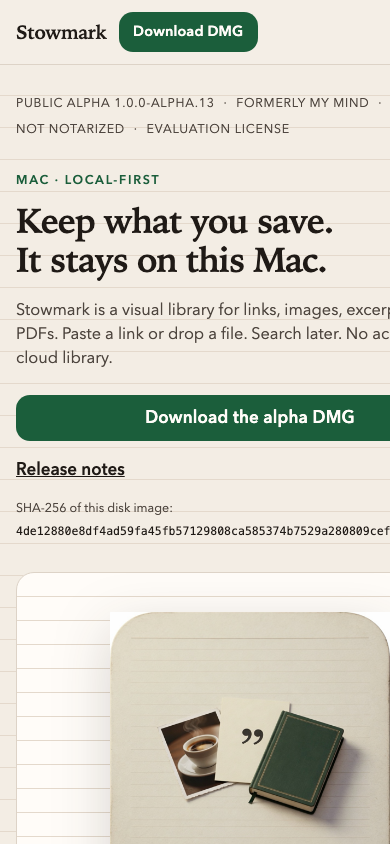
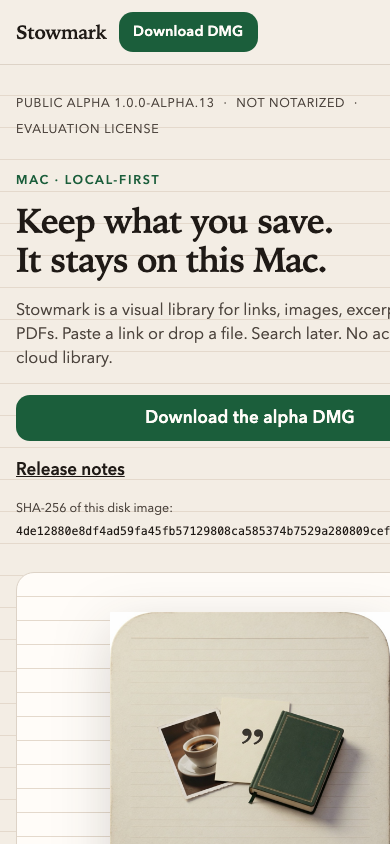
Drop the former My Mind name from the public landing.
Visitor copy is Stowmark only. Keep GitHub download URLs on the existing repo.

diff --git a/site/index.html b/site/index.html
@@ -48,8 +48,6 @@
     <p class="stamp wrap" id="top">
       <span>Public alpha 1.0.0-alpha.13</span>
       <span aria-hidden="true">·</span>
-      <span>Formerly My Mind</span>
-      <span aria-hidden="true">·</span>
       <span>Not notarized</span>
       <span aria-hidden="true">·</span>
       <span>Evaluation license</span>
@@ -114,7 +112,7 @@
           <span class="idx" aria-hidden="true">04</span>
           <div>
             <h3>Leave with a copy you can restore</h3>
-            <p>Export and restore use a <code>.stowmark</code> archive from Settings. Older <code>.cardfile</code> and <code>.mymind</code> archives still restore. The alpha is an evaluation build: keep your own export if the library matters.</p>
+            <p>Export and restore use a <code>.stowmark</code> archive from Settings. Archives from earlier builds still restore. The alpha is an evaluation build: keep your own export if the library matters.</p>
             <p class="artifact"><span>Artifact</span> Release asset: <code>Stowmark-1.0.0-alpha.13.dmg</code> · SHA-256 <code>4de12880e8df4ad59fa45fb57129808ca585374b7529a280809cefcc16ac2360</code></p>
           </div>
         </li>
@@ -151,8 +149,8 @@
       </header>
       <dl class="facts">
         <div>
-          <dt>Name</dt>
-          <dd>Developed as My Mind, then Cardfile. Shipping name is Stowmark, to stay clear of mymind.com. Same local library; this build migrates the older Application Support folders and App Groups.</dd>
+          <dt>Library</dt>
+          <dd>Local on this Mac. This build migrates an existing library, including older Application Support folders and App Groups.</dd>
         </div>
         <div>
           <dt>Notarization</dt>

diff --git a/site/index.design-note.md b/site/index.design-note.md
@@ -31,7 +31,7 @@ A visitor should **understand** that Stowmark is a local visual library on their
 ## Subject-specific cues
 
 1. Capture bar language from the shipping app: “Paste a link or drop a file.”
-2. Paper / ink / forest green tokens from `Sources/Stowmark/Theme.swift` (`#F3EDE4`, `#1F1A16`, `#1B5E3B`). The shipping name is Stowmark; My Mind and Cardfile remain only as former-name honesty.
+2. Paper / ink / forest green tokens from `Sources/Stowmark/Theme.swift` (`#F3EDE4`, `#1F1A16`, `#1B5E3B`). Visitor-facing copy uses Stowmark only.
 3. Kind inventory the library actually stores: links, images, excerpts, and PDFs — plus the real layout names Cards, Rows & Columns, Covers.
 
 ## Selected composition
